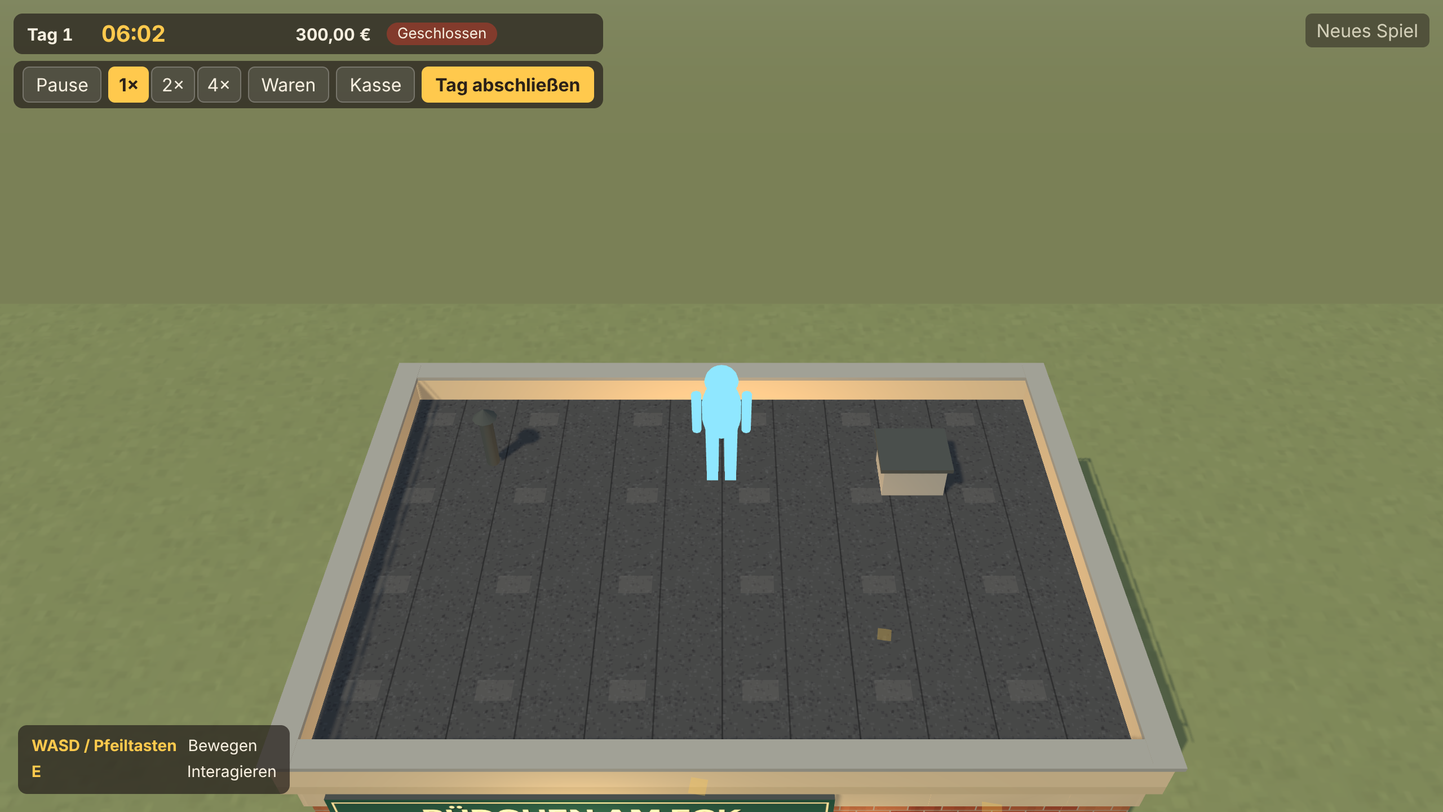
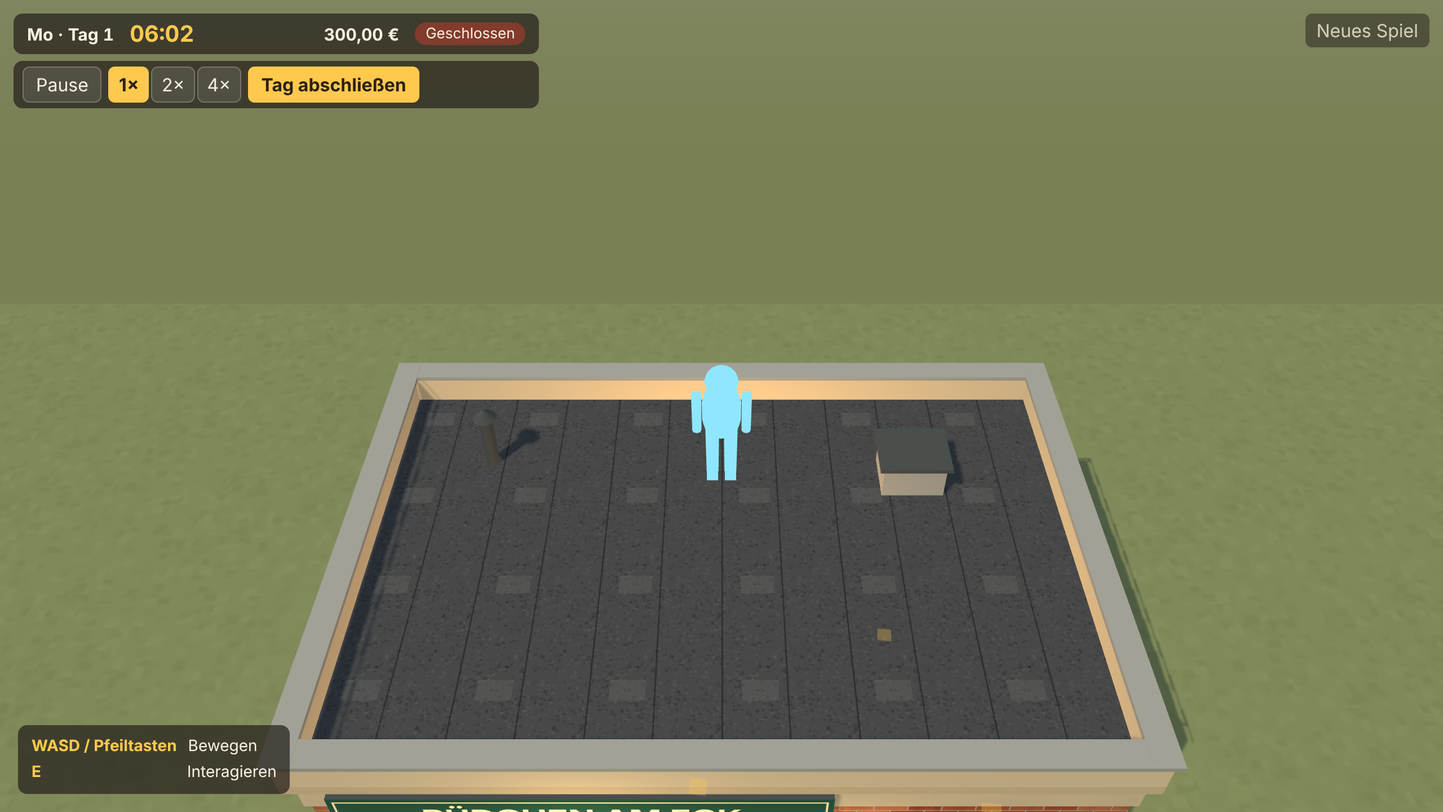
docs: follow-up to Auftrag 03 (panels at their places, weekday, labels, ADR-016)
Claude-Session: https://claude.ai/code/session_01FofYyf6JtoJeWpoGAZqpif

Changed region(s): [[0.1562, 0.0, 0.4375, 0.1562], [0.0, 0.0312, 0.125, 0.0625]]

diff --git a/src/ui/ui.ts b/src/ui/ui.ts
@@ -21,7 +21,7 @@ export type { PanelId };
 
 export interface Ui {
   notify(text: string): void;
-  /** Opens a panel ('report' only when a day report exists). Mainly for the debug hook; normally panels open via the world/HUD. */
+  /** Opens a panel ('report' only when a day report exists). Mainly for the debug hook; normally the till and goods panels open only at their interaction points and the report via the HUD. */
   openPanel(id: PanelId): void;
   closePanel(): void;
   currentPanel(): PanelId | null;

diff --git a/docs/TECHNISCHER-IST-STAND.md b/docs/TECHNISCHER-IST-STAND.md
@@ -103,15 +103,15 @@ Tests liegen als `*.test.ts` neben dem Code.
 `day.started`, `day.ending`, `day.ended`, `calendar.changed`, `product.stock.changed`, `money.changed`, `sale.completed`, `order.placed`, `delivery.received`, `interaction.triggered`; Details in [MODUL-UND-DATENVERTRAEGE.md, Abschnitt 15](MODUL-UND-DATENVERTRAEGE.md).
 
 *HUD, Panels und Bedienung*
-- Kompaktes HUD: Tag, Uhrzeit, Kassenstand, Status „Geöffnet/Geschlossen“ (aus der Verkaufsklappe abgeleitet), Pause/Weiter, Tempo 1×/2×/4×, **immer verfügbare Schaltflächen „Waren“ und „Kasse“**, „Tag abschließen“ (nach Abschluss „Abrechnung“) und ein Hinweis mit Schaltfläche, sobald es 22:00 ist.
+- Kompaktes HUD: Tag mit abgeleitetem Wochentag (z. B. „Mo · Tag 1“), Uhrzeit, Kassenstand, Status „Geöffnet/Geschlossen“ (aus der Verkaufsklappe abgeleitet), Pause/Weiter, Tempo 1×/2×/4×, „Tag abschließen“ (nach Abschluss „Abrechnung“) und ein Hinweis mit Schaltfläche, sobald es 22:00 ist. Die HUD hat keine Schaltflächen für Waren oder Kasse.
 - Panels (jeweils ein Modal über abgedunkeltem Hintergrund, Escape und „Schließen“ schließen, Tab bleibt im Dialog): Warenverwaltung mit vier Reitern (Bestand, Bestellen, Lieferung, Einräumen), Kasse mit Warenkorb und Altersprüfung, Bestätigung des Tagesabschlusses, Tagesabrechnung mit „Nächsten Tag beginnen“.
-- Öffnen: „Waren“ und „Kasse“ über das HUD an jeder Stelle; zusätzlich mit E am Kassenpunkt (hinter der Theke neben der Kasse) bzw. am Lagerpunkt (vor dem Lagerregal) jeweils über die Interaktionspunkte `interaction.register` und `interaction.storage` (Kasse öffnet die Kasse, Lager die Warenverwaltung). Nach einem Neuladen in der Phase „closed“ öffnet sich die Abrechnung wieder.
+- Öffnen nur ortsgebunden: Die Kasse öffnet sich am Kassenpunkt (hinter der Theke neben der Kasse, `interaction.register`), die Warenverwaltung am Lagerpunkt (vor dem Lagerregal, `interaction.storage`). Jeweils mit E oder per Klick auf die Eingabeaufforderung („Kasse bedienen“ bzw. „Lager öffnen“). Ein offenes Panel schließt sich, wenn die Figur den passenden Punkt verlässt oder der Spielstand ersetzt wird (Laden, „Neues Spiel“). Die Ortsregel liegt in der Oberfläche; `economy.completeSale` prüft die Position der Figur nicht, damit später NPC-Kunden dieselbe Verkaufsdomäne nutzen können. Der Debug-Hook `ui.openPanel(...)` (nur mit `?debug` bzw. in DEV) umgeht die Ortsregel. Nach einem Neuladen in der Phase „closed“ öffnet sich die Abrechnung wieder.
 - **Eingabesperre:** Solange ein Panel offen ist, ignoriert die Welt Bewegung und E und lässt gehaltene Tasten los (`world.setInputEnabled`). Die Uhr läuft dabei weiter.
 - Die Oberfläche ändert keine Spielwerte: Warenkorb und Altersbestätigung leben nur im Panel, Aktionen laufen über die `Game`-Fassade, Ablehnungsgründe werden auf deutsche Texte abgebildet.
 
 *3D-Ware*
 - Zehn Verpackungsfabriken (Glasflasche, PET-Flasche, Dose, Beutel, Tafel, Schachtel, Stieleis, Eisbecher, Backware, Heft) bauen eine Einheit mit Pivot Bodenmitte und dem Maß des Produkt-Assets; Farbe, Beschriftung und Maße machen die 28 Produkte unterscheidbar.
-- Etiketten sind Canvas-Texturen je Produkt (Farbband, Akzent, Beschriftung; Bier und Tabak schlicht ohne Zierformen). Flaschen und Dosen tragen Text nur formal; aus Kameraabstand sind es Farbblöcke (siehe Einschränkungen).
+- Etiketten sind Canvas-Texturen je Produkt mit großem Akzentfeld und einem originalen Emblem je fiktiver Markenfamilie (z. B. Scheibe, Raute, Stern, Blitz). Ein Produktwort steht nur, wenn die Schrift physisch mindestens 2,6 cm hoch ist; sonst zeigt das Etikett das Emblem mit einem großen Anfangsbuchstaben. Flaschen und Dosen sind umlaufend und wiederholen sich, damit sie von jeder Seite lesbar wirken; Kronkorken tragen die Akzentfarbe (Bier: Stahl). Bier und Tabak behalten ein schlichtes Band ohne Emblem. Eine Textur je Produkt; Draw Calls unverändert, Texturspeicher höher. Zur Lesbarkeit siehe Einschränkungen.
 - Die Bestandsdarstellung (`stockView.ts`) zeichnet für jeden belegten Platz die ersten n Positionen aus `slotUnitPositions`, als `InstancedMesh` je Modellteil und Produkt, ohne Schatten. Leere Plätze bleiben leer. Aktualisierung nur bei `product.stock.changed` und `game.state.replaced`, nur für betroffene Produkte. Die Rückseite des Mittelregals ist gespiegelt, Hefte liegen geneigt auf den Ablagen des Ständers.
 
 *Savegame*
@@ -283,15 +283,14 @@ Der Override setzt eine neuere Hauptversion durch, als die betroffenen Pakete se
 - **Keine Kosten außer Einkäufen:** Es gibt weder Miete noch Personal, Strom oder Schwund; der Tagesbericht kennt nur Umsatz, Wareneinsatz und Einkäufe.
 - **Lieferung sofort:** Es gibt weder Lieferzeit noch Lieferfahrzeug; Annahme ist ausdrücklich, eine zweite Bestellung erst danach möglich. Das Geld wird bei der Bestellung abgebucht, nicht bei der Annahme.
 - **Lager ist ein Zähler:** höchstens 400 Stück insgesamt (`STORAGE_CAPACITY_UNITS`), ohne Platzbedarf je Produkt und ohne sichtbare Lagerware im Regal `I-011`.
-- **Kasse und Waren überall bedienbar:** Die HUD-Schaltflächen „Waren“ und „Kasse“ öffnen die Panels an jeder Stelle, auch außerhalb des Kiosks; die Interaktionspunkte sind eine zusätzliche Möglichkeit. Verkauf und Bestellung sind nicht an die Position der Figur gebunden (verkauft werden kann nur bei geöffneter Verkaufsklappe).
-- **Etiketten unlesbar aus Kameraabstand:** Die Beschriftung auf Flaschen und Dosen ist zu klein und erscheint als Farbblöcke; lesbar ist sie vor allem auf Heften und Beuteln. Die Produkte unterscheiden sich über Farben, Form und Maße.
+- **Etiketten nur teilweise lesbar:** Bei normaler Spielkamera (1280×720) sind Hefte, Beutel, Schachteln und Eiswaren über Farbfeld und Emblem erkennbar; Wörter auf Beuteln sind nur bei doppelter Pixeldichte lesbar. Flaschen und Dosen sind nur 4–6 px breit, ihre Beschriftung ist nicht lesbar; sie unterscheiden sich über Farbteilung und Kronkorkenfarbe.
 - **Volle Regale sind dreiecksreich** (etwa 452.000 Dreiecke bei 1.513 Einheiten, Messwert aus Abschnitt 6); die Leistung auf echter Grafikhardware ist ungemessen.
 - **Verworfene Zeilen einer offenen Lieferung werden nicht erstattet:** Nach einer Inhaltsänderung entfernt das Laden unbekannte Produktzeilen einer offenen Lieferung ohne Rückbuchung des bereits abgebuchten Betrags.
 - **Platzmaße gelten für Maßstab 1:** Kapazität und Validierung der Warenplätze ignorieren die Skalierung einer Platzierung (die Darstellung wendet sie an). Kein Asset ist derzeit skalierbar.
 - **Zuordnung Rolle zu Lagerart je Rolle, nicht je Asset:** `STORAGE_KINDS_BY_ROLE` gilt für alle Möbel derselben Rolle.
 - **Der Verkauf bucht nach Produkt, nicht nach Platz:** Der Warenkorb enthält Produkte; das Spiel nimmt die Ware aus den Plätzen in Inhaltsreihenfolge, der Spieler wählt keinen Platz.
 - Chips (P-009, 27 cm hoch) passen nicht in die 26 cm hohen Plätze des Mittelregals; die Einräum-Ansicht bietet sie dort deshalb nicht an. In den Wandregalen passen 15 je Platz.
-- **Spielzeit-Datum:** Es gibt nur einen Tageszähler, keinen Wochentag und kein Kalenderdatum.
+- **Spielzeit-Datum:** Es gibt nur einen Tageszähler. Der Wochentag wird daraus abgeleitet (Tag 1 = Montag, `WEEK_LENGTH` = 7) und nicht gespeichert; ein Kalenderdatum und eine Jahreszeit gibt es nicht.
 - **Markennamen sind Arbeitstitel** und rechtlich nicht geprüft; vor einer Veröffentlichung ist eine Recherche nötig.
 - **Die DOM-Panels haben keine eigenen Einzeltests;** sie werden nur durch die Browserprüfung abgedeckt, die in Headless-Chromium lief.
 
@@ -305,7 +304,7 @@ Der Override setzt eine neuere Hauptversion durch, als die betroffenen Pakete se
 | Finanzen, Kasse, Tagesabschluss | vorhanden (Basis) | Kasse mit Warenkorb und Altersprüfung (O-4 umgesetzt), Tagesbericht; keine weiteren Kosten |
 | NPCs, Routinen, Beziehungen | nicht vorhanden | Phase 4; Verkaufsdomäne `economy.completeSale` ist dafür vorbereitet |
 | Dialoge, Quests, Geschichten | nicht vorhanden | Phase 4 |
-| Kalender, Wetter, Events | teilweise vorhanden | Tageszähler und Uhr; kein Wochentag, keine Jahreszeit, kein Wetter, keine Events (Phase 5) |
+| Kalender, Wetter, Events | teilweise vorhanden | Tageszähler, Uhr und abgeleiteter Wochentag; kein Kalenderdatum, keine Jahreszeit, kein Wetter, keine Events (Phase 5) |
 | Rezepte und Kiosk-Traditionen | nicht vorhanden | Phase 5 |
 | UI | vorhanden (Basis) | HUD, Warenverwaltung, Kasse, Tagesabschluss, Hinweise; kein Touch |
 | Savegames und Datenmigration | vorhanden | Version 2, Migration 1→2, Verwerfen unbekannter IDs |

diff --git a/docs/PRUEFANLEITUNG-MANUELL.md b/docs/PRUEFANLEITUNG-MANUELL.md
@@ -2,7 +2,7 @@
 
 **Zweck:** Der automatische Check (`npm run check:browser`) läuft in Headless-Chromium mit Software-Rendering. Diese Anleitung ergänzt ihn um eine Prüfung im normalen Desktop-Browser. Sie ersetzt keine Messung: Ergebnisse bitte unten eintragen.
 
-**Stand der manuellen Prüfung:** In der Entwicklungsumgebung von Claude Code gibt es keinen Browser mit Grafikhardware. Diese Prüfung wurde dort **nicht** durchgeführt. Firefox und Safari sind **ungeprüft**. Es gibt keine gemessene Bildrate auf realer Hardware. Das gilt auch für alle Schritte 13–30 (Waren, Kasse, Tagesabschluss, Speichern) aus Auftrag 03: Sie sind nur in Headless-Chromium mit Software-Rendering automatisch geprüft, **manuell wurde nichts davon durchgeführt**.
+**Stand der manuellen Prüfung:** In der Entwicklungsumgebung von Claude Code gibt es keinen Browser mit Grafikhardware. Diese Prüfung wurde dort **nicht** durchgeführt. Firefox und Safari sind **ungeprüft**. Es gibt keine gemessene Bildrate auf realer Hardware. Das gilt auch für alle Schritte 13–31 (Waren, Kasse, Tagesabschluss, Speichern, Wochentag) aus Auftrag 03: Sie sind nur in Headless-Chromium mit Software-Rendering automatisch geprüft, **manuell wurde nichts davon durchgeführt**.
 
 ## Vorbereitung
 1. `npm install`
@@ -25,24 +25,25 @@
 | 10 | Tür und Klappe in einen beliebigen Zustand bringen, Seite neu laden | Position, Tür und Klappe sind wiederhergestellt, Meldung „Spielstand geladen" |
 | 11 | Fenster verkleinern und vergrößern | Bild passt sich an, nichts verzerrt |
 | 12 | Konsole ansehen | keine Fehler, keine Warnungen zu WebGL-Kontextverlust |
-| 13 | Oben in der Leiste prüfen: Tag 1, 06:00, Kasse 300,00 €, „Geschlossen“; Schaltflächen Pause, 1×/2×/4×, Waren, Kasse, Tag abschließen | Die Uhr läuft: eine Spielminute je Sekunde (nach 10 s etwa 06:10) |
-| 14 | „Waren“ klicken, Reiter „Bestellen“, z. B. 6 × Zitronenlimo, 6 × Pils, 6 × Chips, 6 × Stieleis, 4 × Brötchen und 2 × Filter 20er wählen | Zeile „Bestellsumme“ und „Kasse nach Bestellung“ stimmen mit den Einzelpreisen überein (Betrag selbst nachrechnen); die Figur bewegt sich bei offenem Fenster nicht, E tut nichts, die Uhr läuft weiter |
+| 13 | Oben in der Leiste prüfen: „Mo · Tag 1“, 06:00, Kasse 300,00 €, „Geschlossen“; Schaltflächen Pause, 1×/2×/4×, Tag abschließen (es gibt keine Schaltflächen „Waren“ oder „Kasse“) | Die Uhr läuft: eine Spielminute je Sekunde (nach 10 s etwa 06:10) |
+| 14 | Zum Lagerregal gehen (Interaktionspunkt vor dem Regal), E drücken oder auf „Lager öffnen“ klicken; Reiter „Bestellen“, z. B. 6 × Zitronenlimo, 6 × Pils, 6 × Chips, 6 × Stieleis, 4 × Brötchen und 2 × Filter 20er wählen | Zeile „Bestellsumme“ und „Kasse nach Bestellung“ stimmen mit den Einzelpreisen überein (Betrag selbst nachrechnen); die Figur bewegt sich bei offenem Fenster nicht, E tut nichts, die Uhr läuft weiter |
 | 15 | „Bestellen“ klicken | Kasse sinkt sofort um die Summe, Reiter „Lieferung“ zeigt die Lieferung; eine zweite Bestellung wird abgelehnt |
 | 16 | „Lieferung annehmen“, Reiter „Bestand“ | Mengen stehen im Lager, noch nicht im Regal |
 | 17 | Reiter „Einräumen“: Zitronenlimo in den Kühlschrank, Pils und Chips in ein Regal, Stieleis in die Eistruhe, Brötchen und Filter in die Theke einräumen; Fenster schließen (Escape) | Die Ware steht sichtbar an den Plätzen im Kiosk (Dach und Südwand sind ausgeblendet, wenn die Figur drin steht); nichts überlappt, Ware steht auf den Böden, leere Plätze bleiben leer |
 | 18 | Mehr einräumen als Platz ist | Wird abgelehnt; die Zahl „Platz für n“ entspricht der sichtbar möglichen Menge |
 | 19 | Zurück ins Lager nehmen | Ware verschwindet im Regal, Lagerbestand steigt |
-| 20 | Verkaufsklappe geschlossen: Kasse öffnen (Schaltfläche „Kasse“ oder E an der Kasse) und etwas verkaufen | Hinweis und Ablehnung: Verkaufsklappe geschlossen; bei geöffneter Klappe ist der Verkauf möglich |
+| 20 | Verkaufsklappe geschlossen: hinter die Theke neben der Kasse gehen, E drücken oder auf „Kasse bedienen“ klicken, und etwas verkaufen | Hinweis und Ablehnung: Verkaufsklappe geschlossen; bei geöffneter Klappe ist der Verkauf möglich |
 | 21 | Zitronenlimo in den Warenkorb, „Verkauf abschließen“ | Kasse steigt um den Verkaufspreis, Regalbestand sinkt um 1, die Flasche verschwindet im Kühlschrank |
 | 22 | Pils (ab 16) in den Warenkorb, „Verkauf abschließen“ ohne Häkchen | Ablehnung „Altersprüfung fehlt“; Kasse und Bestand unverändert. Mit Häkchen „Ausweis geprüft“ klappt der Verkauf; danach ist das Häkchen wieder gelöst. Dasselbe mit dem Filter 20er (ab 18) |
-| 23 | Kasse öffnen, „Abbrechen“ | Nichts ändert sich, Warenkorb ist beim nächsten Öffnen leer |
+| 23 | Kasse wie in Schritt 20 öffnen, „Abbrechen“ | Nichts ändert sich, Warenkorb ist beim nächsten Öffnen leer |
 | 24 | Pause klicken, dann Weiter; 2× und 4× wählen | Uhr steht bei Pause, läuft danach mit doppeltem bzw. vierfachem Tempo |
 | 25 | Tempo 4× bis 22:00 laufen lassen (ca. 4 Minuten) | Uhr hält bei 22:00, Hinweis „der Tag muss abgeschlossen werden“; Verkaufen ist gesperrt, die Zeit läuft nicht weiter |
 | 26 | „Jetzt abschließen“, bestätigen | Abrechnung mit Umsatz, Wareneinsatz, Einkäufen, Rohertrag, Kassenveränderung, Kassenstand und Zahl der Verkäufe; Werte gegenrechnen. Einen zweiten Abschluss gibt es nicht; Bestellen ist gesperrt |
-| 27 | „Nächsten Tag beginnen“ | Tag 2, 06:00, Tagessummen bei 0, Bestände und Kasse unverändert |
+| 27 | „Nächsten Tag beginnen“ | „Di · Tag 2“, 06:00, Tagessummen bei 0, Bestände und Kasse unverändert |
 | 28 | Neuladen (F5) mit Ware im Regal, Ware im Lager, offener Lieferung, Tag und Uhrzeit | Alles ist wiederhergestellt (Hinweis „Spielstand geladen“), Regalinhalt sichtbar; nach Neuladen am Abend (Abrechnung offen) erscheint die Abrechnung wieder |
 | 29 | Einen Spielstand aus Phase 2 laden (Version 1, falls vorhanden) | Position, Tür und Klappe bleiben, Tag 1, 300,00 € |
-| 30 | Etiketten ansehen | Hefte und Beutel sind lesbar, Flaschen und Dosen aus Kameraabstand nur als Farbblöcke (bekannte Einschränkung) |
+| 30 | Etiketten ansehen (normale Spielkamera, 1280×720) | Magazine, Beutel, Schachteln und Eiswaren sind über Farbfeld und Emblem zu unterscheiden; Wörter sind nur auf Beuteln bei doppelter Pixeldichte lesbar. Flaschen und Dosen (4–6 px breit) sind nicht lesbar und unterscheiden sich über Farbteilung und Kronkorkenfarbe (bekannte Einschränkung). Bier und Tabak haben ein schlichtes Band ohne Emblem |
+| 31 | Wochentag prüfen: Leiste zeigt „Mo · Tag 1“; nach „Nächsten Tag beginnen“ (Schritt 27) „Di · Tag 2“; Abrechnung trägt den Titel „Tagesabrechnung – Montag, Tag 1“ | Der Wochentag stimmt mit Tag 1 = Montag überein und wird aus dem Tageszähler abgeleitet; es gibt kein Datum und keine Jahreszeit. Nach Neuladen steht derselbe Wochentag in der Leiste |
 
 ## Bildrate messen (optional)
 In der Konsole ausführen, dabei 10 Sekunden herumlaufen:
@@ -52,6 +53,6 @@ In der Konsole ausführen, dabei 10 Sekunden herumlaufen:
 ```
 
 ## Protokoll
-| Datum | Gerät / Grafikkarte | Betriebssystem | Browser und Version | Schritte 1–30 | Bilder/s | Auffälligkeiten |
+| Datum | Gerät / Grafikkarte | Betriebssystem | Browser und Version | Schritte 1–31 | Bilder/s | Auffälligkeiten |
 |---|---|---|---|---|---|---|
 | | | | | | | |

diff --git a/docs/IMPLEMENTIERUNGSPLAN.md b/docs/IMPLEMENTIERUNGSPLAN.md
@@ -90,17 +90,17 @@ Umfang:
 **Abnahme:** Der Spieler kann in der laufenden Anwendung Ware bestellen, erhalten, einräumen und verkaufen. Geld und Bestände bleiben konsistent; altersbeschränkte Waren sind ohne bestätigte Altersprüfung gesperrt. Die Spieluhr ist pausierbar/vorspulbar, Tagesabschluss und Savegame-Migration funktionieren.
 
 **Status (2026-11-13): umgesetzt mit Auftrag 03.** O-3 und O-4 sind in [ARCHITEKTUR-ENTSCHEIDUNGEN.md](ARCHITEKTUR-ENTSCHEIDUNGEN.md) entschieden und umgesetzt. Einzelheiten, Prüfergebnisse und Einschränkungen: [TECHNISCHER-IST-STAND.md](TECHNISCHER-IST-STAND.md); Verträge: [MODUL-UND-DATENVERTRAEGE.md, Abschnitt 15](MODUL-UND-DATENVERTRAEGE.md); Katalog: [PRODUKTKATALOG.md](PRODUKTKATALOG.md).
-- Umgesetzt: 28 fiktive Produkte (`P-001` bis `P-028`) mit 3D-Modellen und Etiketten, 67 Warenplätze mit geometrischer Kapazität, Hinterlager, Bestellung mit sofort eintreffender, ausdrücklich anzunehmender Lieferung, Einräumen und Zurücknehmen, Kasse mit Warenkorb, Transaktionen und Alterskontrolle als Verkaufsschranke, Spieluhr (1 Minute = 1 Sekunde, 06:00–22:00, Pause, 1×/2×/4×, Halt bei 22:00 bis zum ausdrücklichen Abschluss), Tagesabrechnung, HUD und Panels, sichtbarer Bestand im Regal, Savegame Version 2 mit Migration 1→2.
+- Umgesetzt: 28 fiktive Produkte (`P-001` bis `P-028`) mit 3D-Modellen und Etiketten, 67 Warenplätze mit geometrischer Kapazität, Hinterlager, Bestellung mit sofort eintreffender, ausdrücklich anzunehmender Lieferung, Einräumen und Zurücknehmen, Kasse mit Warenkorb, Transaktionen und Alterskontrolle als Verkaufsschranke, Spieluhr (1 Minute = 1 Sekunde, 06:00–22:00, Pause, 1×/2×/4×, Halt bei 22:00 bis zum ausdrücklichen Abschluss), Tagesabrechnung, HUD und Panels (Kasse nur am Kassenpunkt, Warenverwaltung nur am Lagerpunkt; keine HUD-Schaltflächen dafür), abgeleiteter Wochentag im HUD (Tag 1 = Montag, nicht gespeichert), sichtbarer Bestand im Regal, Savegame Version 2 mit Migration 1→2.
 - Automatisiert getestet: 367 Tests in 22 Dateien (eigener Lauf 2026-11-13); Browserprüfung in Headless-Chromium: 90 von 90 Prüfungen bestanden (eigener Lauf 2026-11-13, davor zwei grüne Läufe des umsetzenden Subagenten). Manuell auf echter Grafikhardware: nicht geprüft.
 
 Offene Restpunkte aus Phase 3:
 - Keine Preisänderung durch den Spieler (Verkauf zum vorgeschlagenen Preis); keine Kosten außer Einkäufen; Lieferung ohne Wartezeit; Lager nur als Zähler (400 Stück).
-- Etiketten auf Flaschen und Dosen aus Kameraabstand nicht lesbar; volle Regale sind dreiecksreich (Messwert 452.000 Dreiecke bei 1.513 Einheiten), Leistung auf echter Hardware ungemessen.
+- Etiketten nur teilweise lesbar: Flaschen und Dosen (4–6 px breit) aus Kameraabstand nicht lesbar, Wörter auf Beuteln nur bei doppelter Pixeldichte; Emblem, Farbfeld und Kronkorkenfarbe tragen die Unterscheidung. Volle Regale sind dreiecksreich (Messwert 452.000 Dreiecke bei 1.513 Einheiten), Leistung auf echter Hardware ungemessen.
 - Verworfene Lieferzeilen nach Inhaltsänderungen werden nicht erstattet; Platzmaße ignorieren Platzierungsskalierung; Rolle→Lagerart je Rolle statt je Asset.
 - Markennamen sind Arbeitstitel und rechtlich nicht geprüft.
 - Prüfung auf echter Grafikhardware und in Firefox/Safari nach [PRUEFANLEITUNG-MANUELL.md](PRUEFANLEITUNG-MANUELL.md), nun auch für den Wirtschaftskreislauf, steht aus.
 
-**Grundlage für Phase 4:** `economy.completeSale` ist die Verkaufsdomäne, die NPC-Kunden später wie der Kassenablauf aufrufen können (Bestand, Altersschranke, Phase und Klappe werden dort geprüft); `day.started`, `day.ended`, `sale.completed` und `product.stock.changed` sind vorhanden; die Uhr läuft deterministisch über `game.tick`, der Spielstand ist versioniert und migrierbar; die Nachfrage-Tags der Produkte stehen als Daten bereit. Für Phase 4 fehlen noch Wochentag/Kalender (kommt eher mit Phase 5), geseedeter Zufall und eine Kunden- bzw. Besuchslogik.
+**Grundlage für Phase 4:** `economy.completeSale` ist die Verkaufsdomäne, die NPC-Kunden später wie der Kassenablauf aufrufen können (Bestand, Altersschranke, Phase und Klappe werden dort geprüft); `day.started`, `day.ended`, `sale.completed` und `product.stock.changed` sind vorhanden; die Uhr läuft deterministisch über `game.tick`, der Spielstand ist versioniert und migrierbar; die Nachfrage-Tags der Produkte stehen als Daten bereit. Der Wochentag ist als Ableitung aus dem Tageszähler vorhanden (`weekdayOf`, `WEEK_LENGTH` = 7, nicht gespeichert). Für Phase 4 fehlen noch geseedeter Zufall und eine Kunden- bzw. Besuchslogik; Kalender mit Datum und Jahreszeiten kommt eher mit Phase 5.
 
 ## Phase 4 – Bewohner und soziale Bindung (MVP)
 **Ziel:** das Viertel bekommt wiederkehrende Menschen und der Kiosk eine soziale Identität.
@@ -119,7 +119,7 @@ Aufgaben:
 **Ziel:** Ereignisse verbinden Wirtschaft, Menschen und Jahreszeiten.
 
 Aufgaben:
-1. Kleinen Kalender für Wochentage, Jahreszeiten und besondere Termine einführen, passend zur bestehenden Zeitlogik.
+1. Kleinen Kalender für Datum, Jahreszeiten und besondere Termine einführen, passend zur bestehenden Zeitlogik; der Wochentag ist als Ableitung bereits vorhanden.
 2. Mindestens ein Event (z. B. Spieltag oder Straßenfest) mit Vorbereitung, Durchführung und Nachwirkung umsetzen.
 3. Wetter bzw. Temperatur mit Waren-Nachfrage und NPC-Verhalten verbinden.
 4. Eine eigene Kiosk-Spezialität als entstehende Tradition implementieren – beispielsweise selbstgemachte Frikadellen: Rezept/Herstellung, Kosten, Angebot, Feedback und wiederkehrende Nachfrage.

diff --git a/docs/artwork-prompts/07-artwork-register.md b/docs/artwork-prompts/07-artwork-register.md
@@ -71,7 +71,7 @@ Dieses Register ist die zentrale Liste für geplante und umgesetzte Artworks. St
 | N-006 | Fahrradkurier | Ruhrgebiet | P2 | Geplant |
 | N-007 | Nachbarin | Ruhrgebiet | P2 | Geplant |
 
-**Produkte P-001 bis P-028 (Auftrag 03):** je ein Produkt, eine Asset-ID; mehrere Produkte teilen sich die Modellfabrik ihrer Verpackungsart (`src/world/assets/products/`), Etikett, Farben, Beschriftung und Maße unterscheiden sie. Die Fabriken sind über `src/world/assets/registry.ts` erreichbar, die Platzierung erfolgt über die Warenplätze (`slots.ts`) und die Bestandsdarstellung (`stockView.ts`). Sichtprüfung: in Headless-Chromium über die Browserprüfung (3D-Bestand folgt den Daten, Screenshot `docs/screenshots/auftrag-03-innen-bestueckt.png` angesehen); nicht auf echter Grafikhardware. Alle Marken sind fiktive Arbeitstitel ohne rechtliche Prüfung; die vollständige Tabelle mit Preisen und Altersangaben steht im [Produktkatalog](../PRODUKTKATALOG.md). Etiketten sind auf Flaschen und Dosen aus Kameraabstand nicht lesbar (Farbblöcke), lesbar vor allem auf Heften und Beuteln.
+**Produkte P-001 bis P-028 (Auftrag 03):** je ein Produkt, eine Asset-ID; mehrere Produkte teilen sich die Modellfabrik ihrer Verpackungsart (`src/world/assets/products/`), Etikett, Farben, Beschriftung und Maße unterscheiden sie. Die Fabriken sind über `src/world/assets/registry.ts` erreichbar, die Platzierung erfolgt über die Warenplätze (`slots.ts`) und die Bestandsdarstellung (`stockView.ts`). Sichtprüfung: in Headless-Chromium über die Browserprüfung (3D-Bestand folgt den Daten, Screenshot `docs/screenshots/auftrag-03-innen-bestueckt.png` angesehen); nicht auf echter Grafikhardware. Alle Marken sind fiktive Arbeitstitel ohne rechtliche Prüfung; die vollständige Tabelle mit Preisen und Altersangaben steht im [Produktkatalog](../PRODUKTKATALOG.md). Etiketten (Nacharbeit 2026-11-13): großes Akzentfeld und ein originales Emblem je Markenfamilie; ein Produktwort nur bei physisch mindestens 2,6 cm Schrifthöhe, sonst Emblem mit großem Anfangsbuchstaben. Bei normaler Spielkamera (1280×720) sind Magazine, Beutel, Schachteln und Eiswaren über Farbfeld und Emblem erkennbar; Wörter auf Beuteln nur bei doppelter Pixeldichte. Flaschen und Dosen (4–6 px breit) sind nicht lesbar und werden über Farbteilung und Kronkorkenfarbe unterschieden. Die Anforderung „lesbare Etiketten“ ist damit nur teilweise erfüllt.
 
 ## Änderungsprotokoll
 Bei jeder neuen oder geänderten Asset-Version Datum, Änderung, verantwortliche Person und betroffene Dateien ergänzen. Ein Asset erst auf „Freigegeben“ setzen, wenn es die Qualitätskriterien aus der Art Direction erfüllt.
@@ -85,3 +85,4 @@ Bei jeder neuen oder geänderten Asset-Version Datum, Änderung, verantwortliche
 | 2026-11-13 | P-001 bis P-028 als 28 einzelne Produktassets mit zehn gemeinsamen Verpackungsfabriken (Glasflasche, PET-Flasche, Dose, Beutel, Tafel, Schachtel, Stieleis, Eisbecher, Backware, Heft) und Canvas-Etiketten je Produkt; ersetzt den Sammeleintrag P-001 bis P-030, P-029 und P-030 sind nicht vergeben | Claude Code (Auftrag 03) | `src/world/assets/products/*`, `src/content/assets/productAssets.ts`, `src/content/regions/ruhrgebiet/products.ts` |
 | 2026-11-13 | I-007: unbeschriftete Platzhalterhefte entfernt; der Ständer zeigt Hefte nur noch als Ware (P-021 bis P-023) aus dem Bestand | Claude Code (Auftrag 03) | `src/world/assets/furniture/magazineRack.ts`, `src/world/views/stockView.ts` |
 | 2026-11-13 | I-001, I-003, I-004, I-005, I-006, I-007: Warenplätze (67) als Daten hinterlegt; Fabriken unverändert bis auf I-007 | Claude Code (Auftrag 03) | `src/content/regions/ruhrgebiet/slots.ts` |
+| 2026-11-13 | P-001 bis P-028: Etiketten-Nachbesserung (Nacharbeit zu Auftrag 03). Großes Akzentfeld, ein Emblem je Markenfamilie, Produktwort nur ab 2,6 cm Schrifthöhe, Flaschen und Dosen umlaufend, Kronkorken in Akzentfarbe (Bier: Stahl), Bier und Tabak ohne Emblem. Lesbarkeit bei 1280×720 nur teilweise erreicht; Draw Calls und Texturanzahl unverändert, Texturspeicher höher | Claude Code (Nacharbeit Auftrag 03) | `src/world/assets/products/labelTexture.ts` |

diff --git a/docs/MODUL-UND-DATENVERTRAEGE.md b/docs/MODUL-UND-DATENVERTRAEGE.md
@@ -520,7 +520,7 @@ export interface GameState {
   economy: EconomyState;
 }
 ```
-Nur JSON-Daten und stabile IDs. Nicht im Zustand: Warenkorb, Altersbestätigung, offene Panels, Bestellentwurf. Anfangswerte: Tag 1, 06:00, Tempo 1×, nicht pausiert, Phase `open`, 30.000 Cent, leere Bestände, keine Lieferung, leere Tagessummen, kein Bericht, `nextTransactionId` 1.
+Nur JSON-Daten und stabile IDs. Nicht im Zustand: Warenkorb, Altersbestätigung, offene Panels, Bestellentwurf, Wochentag (abgeleitet aus `calendar.day` über `weekdayOf`, kein Schema-Wechsel). Anfangswerte: Tag 1, 06:00, Tempo 1×, nicht pausiert, Phase `open`, 30.000 Cent, leere Bestände, keine Lieferung, leere Tagessummen, kein Bericht, `nextTransactionId` 1.
 
 Phasen: `open` = Uhr läuft (sofern nicht pausiert); `awaiting_close` = 22:00 erreicht, die Uhr steht und wartet auf `economy.closeDay()`; `closed` = Tag abgeschlossen, wartet auf `calendar.startNextDay()`.
 
@@ -529,6 +529,7 @@ Phasen: `open` = Uhr läuft (sofern nicht pausiert); `awaiting_close` = 22:00 er
 |---|---|---|
 | `START_CASH_CENTS` | 30000 | Startkapital 300,00 € |
 | `DAY_START_MINUTE` / `DAY_END_MINUTE` | 360 / 1320 | 06:00 / 22:00 |
+| `WEEK_LENGTH` | 7 | Tage je Woche; Tag 1 ist ein Montag. Der Wochentag wird aus dem Tageszähler abgeleitet (`weekdayOf`) und nicht gespeichert |
 | `GAME_MINUTES_PER_SECOND` | 1 | Spielminuten je reale Sekunde bei Tempo 1× |
 | `SPEEDS`, `DEFAULT_SPEED` | `[1, 2, 4]`, 1 | erlaubte Tempostufen |
 | `TRANSACTION_LIMIT` | 200 | gespeicherte Transaktionen |
@@ -559,11 +560,11 @@ Alle Aktionen liefern `{ ok: true }` oder `{ ok: false, reason }` (`ActionResult
 | `economy.completeSale({ lines, ageCheckConfirmed })` | atomarer Verkauf aus Warenplätzen zum `suggestedPriceCents`; Bestand wird über die Plätze in Inhaltsreihenfolge abgebucht; Kasse und Tagesumsatz steigen, `costOfGoodsSoldCents` und `salesCount` auch; Transaktion `sale` | `empty_cart`; `invalid_quantity`; `unknown_product`; `day_not_open` (Phase ≠ `open`); `kiosk_closed` (Verkaufsklappe zu); `age_check_required` (mindestens eine Zeile mit `minimumAge`, `ageCheckConfirmed` nicht `true`); `insufficient_stock` (Regalbestand, nicht Lager) |
 | `economy.closeDay()` | in Phase `open` oder `awaiting_close`: erzeugt `lastReport`, Phase `closed`, sendet `calendar.changed` und `day.ended` | `day_already_closed` |
 
-Weitere Ablehnungsgründe der Fassade: `player.setPose` → `invalid_pose`; `interact` → `nothing_in_range`; `load` → `region_mismatch`. Pause sperrt weder Bestellung noch Verkauf noch Einräumen. `restock`, `unstock` und Verkauf hängen nicht von der Position der Figur ab; die Oberfläche kann sie überall auslösen.
+Weitere Ablehnungsgründe der Fassade: `player.setPose` → `invalid_pose`; `interact` → `nothing_in_range`; `load` → `region_mismatch`. Pause sperrt weder Bestellung noch Verkauf noch Einräumen. `restock`, `unstock` und Verkauf hängen nicht von der Position der Figur ab. Die Oberfläche öffnet Kasse und Warenverwaltung seit der Nacharbeit zu Auftrag 03 nur am Kassenpunkt (`register`) bzw. Lagerpunkt (`storage`); die Ortsregel liegt in `ui.ts`, nicht in der Fassade (siehe [ARCHITEKTUR-ENTSCHEIDUNGEN.md](ARCHITEKTUR-ENTSCHEIDUNGEN.md)).
 
 `interact()` an einem Punkt vom Typ `register` oder `storage` ändert keinen Zustand und sendet `interaction.triggered`; an Tür und Klappe schaltet es wie bisher. `AvailableInteraction.action` kennt zusätzlich `register.use` und `storage.use`.
 
-Lesende Hilfen (`selectors.ts`, ohne Veränderung): `findProduct`, `findSlot`, `storageQuantity`, `storageUnits`, `pendingUnits`, `freeStorageUnits`, `shelfQuantity`, `slotCapacityFor`, `slotsAccepting`, `cartNeedsAgeCheck`, `cartMinimumAge`, `cartTotalCents`, `orderTotalCents`.
+Lesende Hilfen (`selectors.ts`, ohne Veränderung): `findProduct`, `findSlot`, `storageQuantity`, `storageUnits`, `pendingUnits`, `freeStorageUnits`, `shelfQuantity`, `slotCapacityFor`, `slotsAccepting`, `cartNeedsAgeCheck`, `cartMinimumAge`, `cartTotalCents`, `orderTotalCents`, `weekdayOf` (Tag 1 = Montag, Index 0 bis 6).
 
 ### 15.5 Signale (`events.ts`)
 | Signal | Nutzlast | Wann |

diff --git a/docs/ARCHITEKTUR-ENTSCHEIDUNGEN.md b/docs/ARCHITEKTUR-ENTSCHEIDUNGEN.md
@@ -114,13 +114,13 @@ Die technischen ADRs sind seit Auftrag 01 umgesetzt, soweit ihr Status das angib
 **Konsequenzen:** Was das Spiel zulässt, ist genau das, was die Welt zeichnet, und Modelle überlappen nicht. Die Plätze stehen als Daten in `slots.ts` und werden gegen die echten Möbelfabriken geprüft (Integrationstest). Ändert sich ein Möbel, müssen die Platzmaße mitgezogen werden. Die Maße gelten für Maßstab 1 (kein Asset ist skalierbar). Produkte, die nicht in einen Platz passen, haben dort Kapazität 0.
 
 ### ADR-012 – Ein P-Asset je Produkt, gemeinsame Modellfabriken je Verpackungsart
-**Status:** Entschieden (umgesetzt in Auftrag 03).
+**Status:** Entschieden (umgesetzt in Auftrag 03; Etiketten nachgearbeitet am 2026-11-13).
 
 **Kontext:** Das Register führte P-001 bis P-030 als Sammeleintrag. Der Auftrag erlaubt gemeinsame Fabriken bei gleicher Form, verlangt aber unterscheidbare Produkte.
 
 **Entscheidung:** Jedes der 28 Produkte hat genau eine Asset-ID (`P-001` bis `P-028`, in Katalogreihenfolge) mit dem Maß einer Einheit; die Validierung verlangt, dass eine Asset-ID nur einem Produkt gehört. Zehn Fabriken je Verpackungsart (`PackageKind`) bauen die Form; Farben, Beschriftung und Etikett kommen aus dem `ProductDef`, Maße aus dem Asset. P-029 und P-030 bleiben frei.
 
-**Konsequenzen:** Ein neues Produkt braucht nur Daten, solange die Verpackungsart existiert. Die Form ist je Verpackungsart gleich. Die Etiketten sind Canvas-Texturen; Text auf Flaschen und Dosen ist aus Kameraabstand nicht lesbar. Die Produktdarstellung nutzt `InstancedMesh` je Modellteil und Produkt.
+**Konsequenzen:** Ein neues Produkt braucht nur Daten, solange die Verpackungsart existiert. Die Form ist je Verpackungsart gleich. Die Etiketten sind Canvas-Texturen mit Akzentfeld und Emblem je Markenfamilie; ein Produktwort steht nur bei physisch mindestens 2,6 cm Schrifthöhe. Text auf Flaschen und Dosen ist aus Kameraabstand nicht lesbar, Wörter auf Beuteln nur bei doppelter Pixeldichte. Die Produktdarstellung nutzt `InstancedMesh` je Modellteil und Produkt.
 
 ### ADR-013 – Lieferung trifft sofort ein, wird aber ausdrücklich angenommen
 **Status:** Entschieden (umgesetzt in Auftrag 03).
@@ -148,6 +148,15 @@ Die technischen ADRs sind seit Auftrag 01 umgesetzt, soweit ihr Status das angib
 **Entscheidung:** Verkauft wird zum vorgeschlagenen Verkaufspreis des Produkts (`suggestedPriceCents`). Es gibt keinen Preis im Spielstand und keine Aktion `setPrice`.
 
 **Konsequenzen:** Weniger Zustand und kein Balancing ohne Nachfrage. Eine spätere Preisfunktion braucht Zustand je Produkt, eine Migration und die Nachfragewirkung (Phase 5).
+
+### ADR-016 – Kasse und Warenverwaltung sind ortsgebunden; die Ortsregel liegt in der UI, nicht in der Verkaufsdomäne
+**Status:** Entschieden (umgesetzt in der Nacharbeit zu Auftrag 03, 2026-11-13).
+
+**Kontext:** Die Schaltflächen „Waren“ und „Kasse“ im HUD öffneten die Panels an jeder Stelle, auch außerhalb des Kiosks. Das widersprach der Vorstellung, dass der Kiosk der Ort des Spielers ist, und machte den Verkauf zu einer Handlung ohne Ort.
+
+**Entscheidung:** Die Kasse öffnet sich nur am Interaktionspunkt `interaction.register`, die Warenverwaltung nur am Punkt `interaction.storage`, jeweils mit E oder per Klick auf die Eingabeaufforderung. Ein offenes Panel schließt sich, wenn die Figur den Punkt verlässt oder der Spielstand ersetzt wird. Die Verkaufsdomäne `economy.completeSale` prüft die Position nicht; `restock` und `unstock` ebenfalls nicht. Der Debug-Hook `ui.openPanel(...)` umgeht die Ortsregel bewusst.
+
+**Konsequenzen:** Die Ortsregel ist eine reine UI-Regel und lässt sich ohne Änderung am Spielzustand ändern. NPC-Kunden in Phase 4 können dieselbe Verkaufsdomäne nutzen, ohne an der Spielerposition zu hängen. Die Test-IDs `hud-open-goods` und `hud-open-till` entfallen. Der Tag-abschließen-Knopf bleibt im HUD.
 
 ---
 

diff --git a/README.md b/README.md
@@ -16,7 +16,7 @@ npm install
 npm run dev
 ```
 
-Danach die angezeigte Adresse im Desktop-Browser öffnen. Steuerung: **WASD** oder Pfeiltasten zum Laufen, **E** zum Interagieren (oder Klick auf den Hinweis). Mit **E** an der Kasse (hinter der Theke neben der Kasse) öffnet sich die Kasse, mit **E** am Lagerregal im Kiosk die Warenverwaltung. Die Schaltflächen **Waren** und **Kasse** in der Leiste oben öffnen die beiden Oberflächen auch von jeder anderen Stelle; **Escape** schließt sie. Solange ein Fenster offen ist, steht die Figur still, die Uhr läuft weiter.
+Danach die angezeigte Adresse im Desktop-Browser öffnen. Steuerung: **WASD** oder Pfeiltasten zum Laufen, **E** zum Interagieren (oder Klick auf den Hinweis). Mit **E** an der Kasse (hinter der Theke neben der Kasse) öffnet sich die Kasse, mit **E** am Lagerregal im Kiosk die Warenverwaltung. Kasse und Warenverwaltung sind ortsgebunden; die Leiste oben hat dafür keine Schaltflächen. Sie zeigt den Tag mit Wochentag (z. B. „Mo · Tag 1“). **Escape** schließt die Oberflächen. Solange ein Fenster offen ist, steht die Figur still, die Uhr läuft weiter.
 
 | Befehl | Zweck |
 |---|---|
